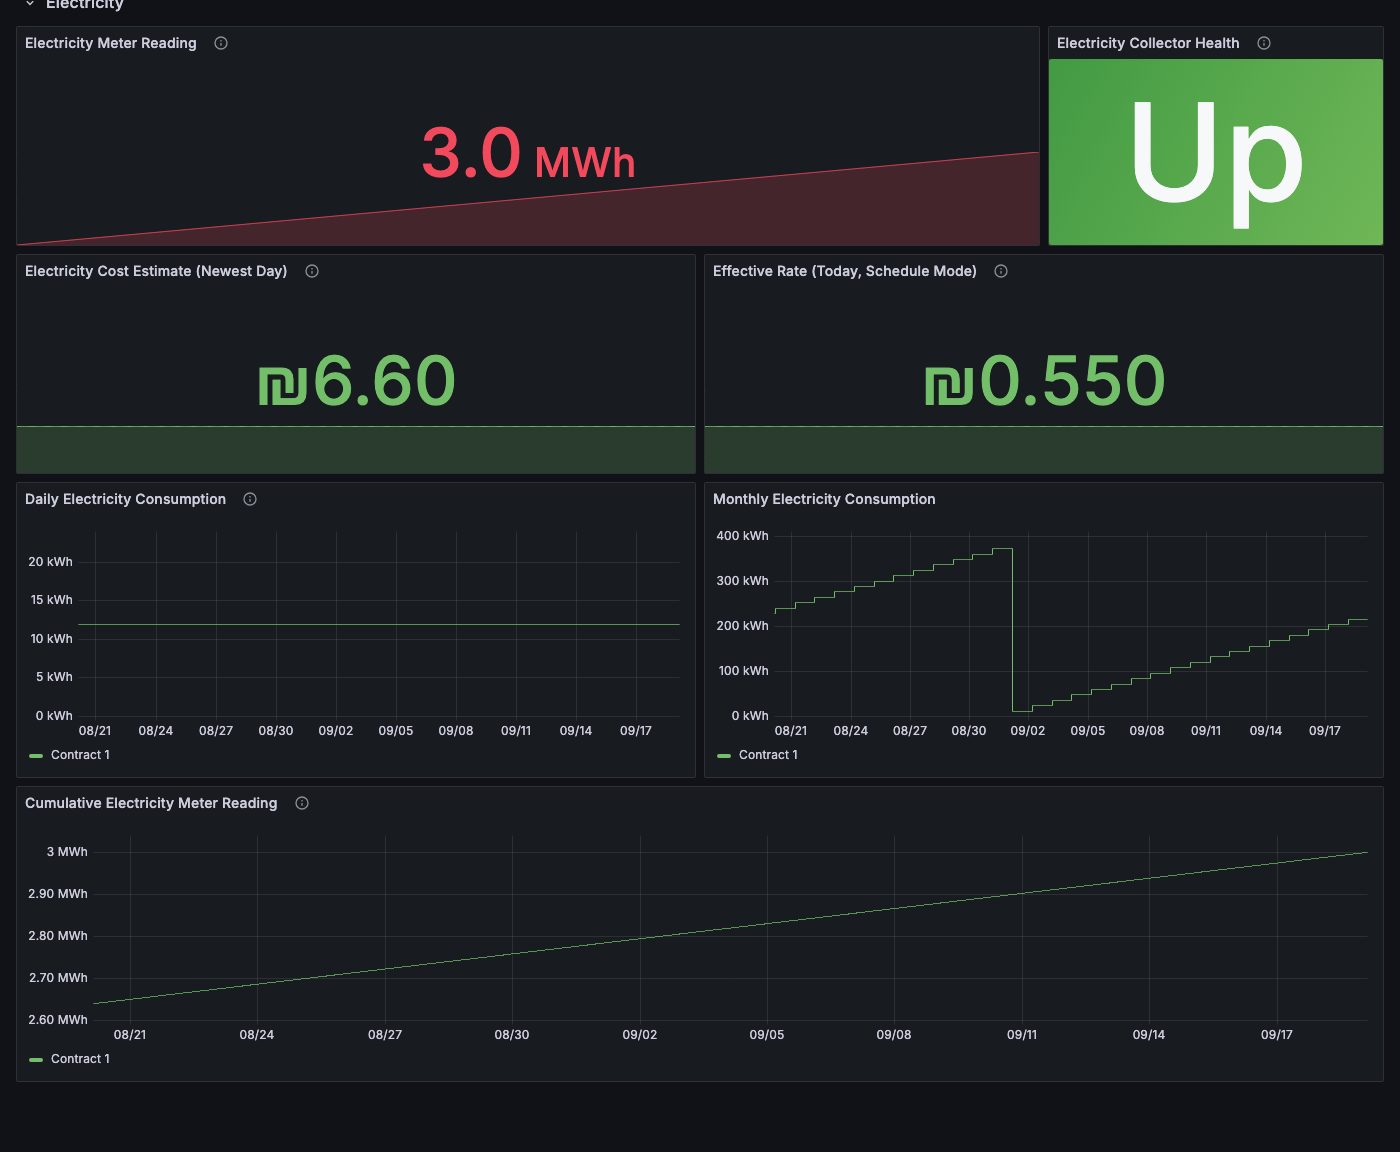
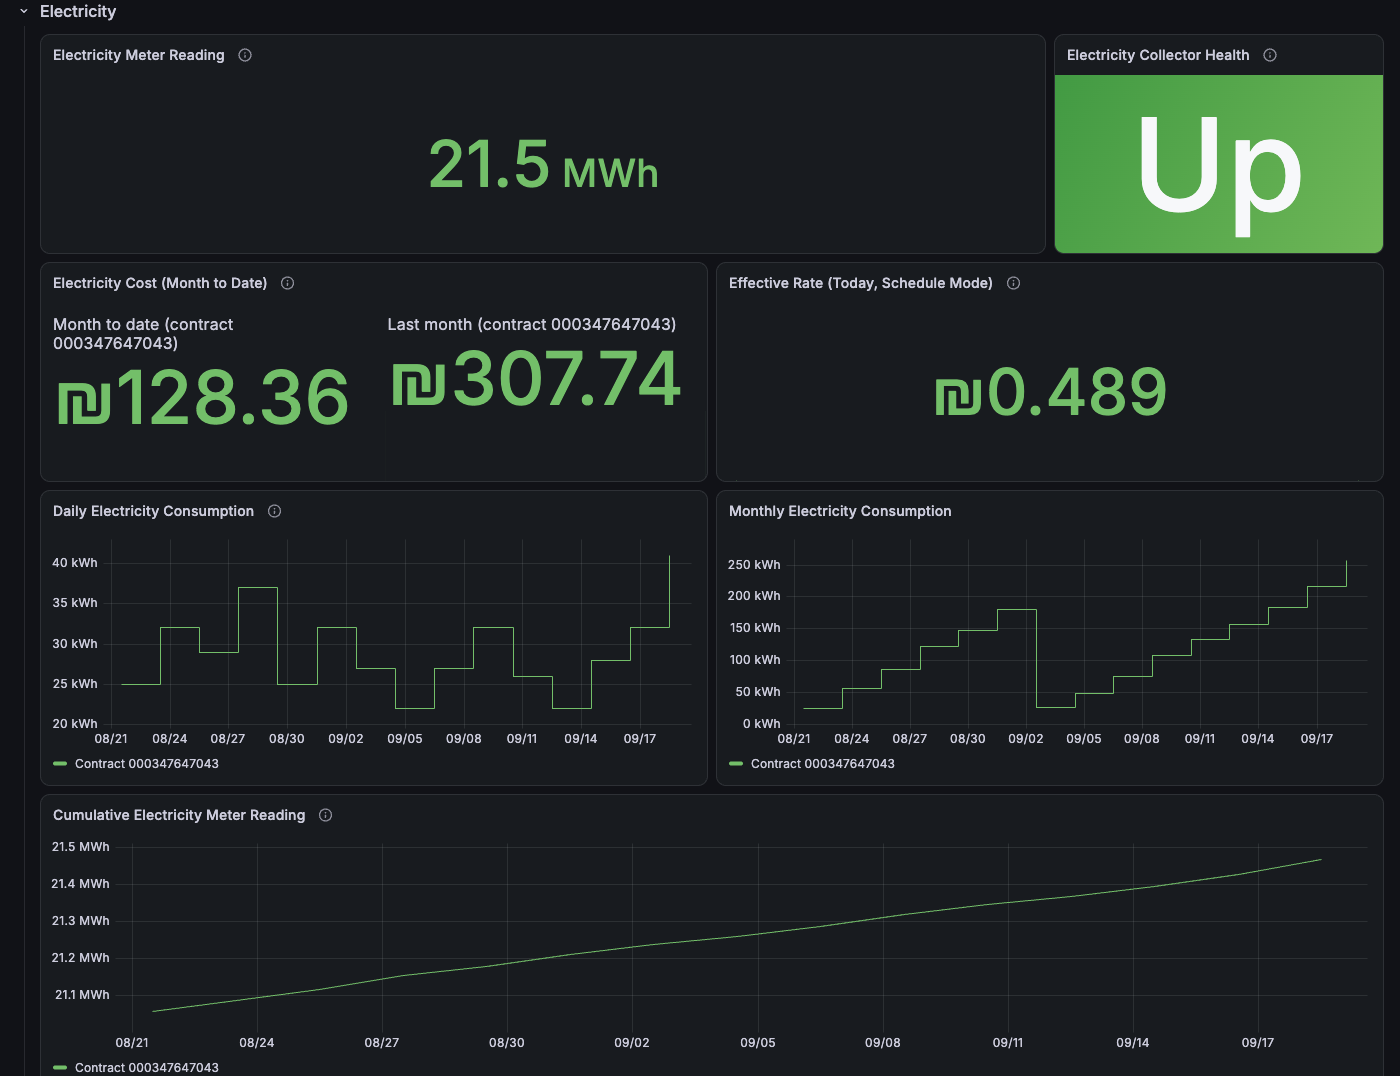
fix: stat panels turning red past an unset default threshold, refresh screenshots
Water/Electricity Meter Reading, Water/Electricity Cost, and Effective
Rate never set an explicit `thresholds` color, so they silently
inherited Grafana's schema default (green below 80, red at or above).
A plain meter reading or cost figure crossing 80 in whatever unit
Prometheus stores it in turned red for no reason — only found by
actually rendering the dashboard against realistic demo data instead
of the small values that happened to stay under 80 in earlier manual
checks. Gave each panel an explicit, always-green threshold instead.

Also refreshed both dashboard screenshots in docs/ against a local
Prometheus+Grafana seeded with synthetic (but realistically computed,
via this repo's own pricing code) data, to reflect every dashboard
change in this branch: spanNulls, the new Electricity Cost panel, and
the "Last month" comparison values.

diff --git a/CHANGELOG.md b/CHANGELOG.md
@@ -51,6 +51,15 @@ headings in the `## [x.y.z] - YYYY-MM-DD` form.
   connected line/area, because the gap between two real samples is often
   wider than Grafana's default null-gap heuristic tolerates for that field.
   Both now set `spanNulls: true`.
+- The "Water/Electricity Meter Reading", "Water/Electricity Cost", and
+  "Effective Rate" stat panels never set an explicit `thresholds` color, so
+  they silently inherited Grafana's schema default (green below 80, red at
+  or above) — a plain meter reading or cost figure crossing 80 (in whatever
+  unit Prometheus stores it in, e.g. kWh for a MWh-displayed reading) turned
+  it red for no real reason. Confirmed against the actual numbers this
+  exporter produces once seeded with realistic demo data, rather than only
+  the small values that happened to stay under 80 in earlier testing. Fixed
+  by giving each an explicit, always-green threshold.
 
 ## [0.6.0] - 2026-09-19
 
